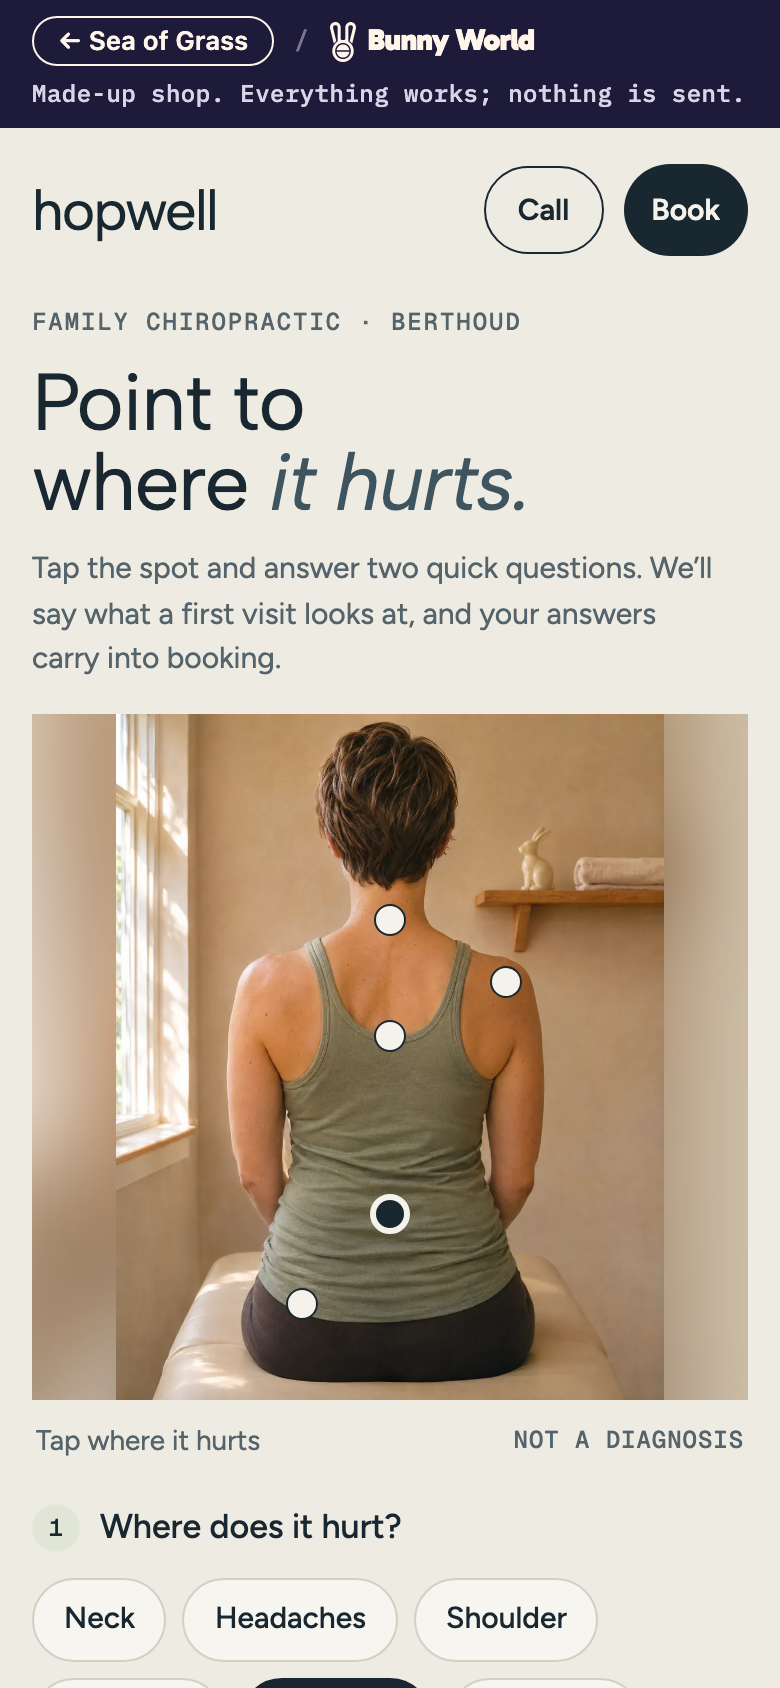
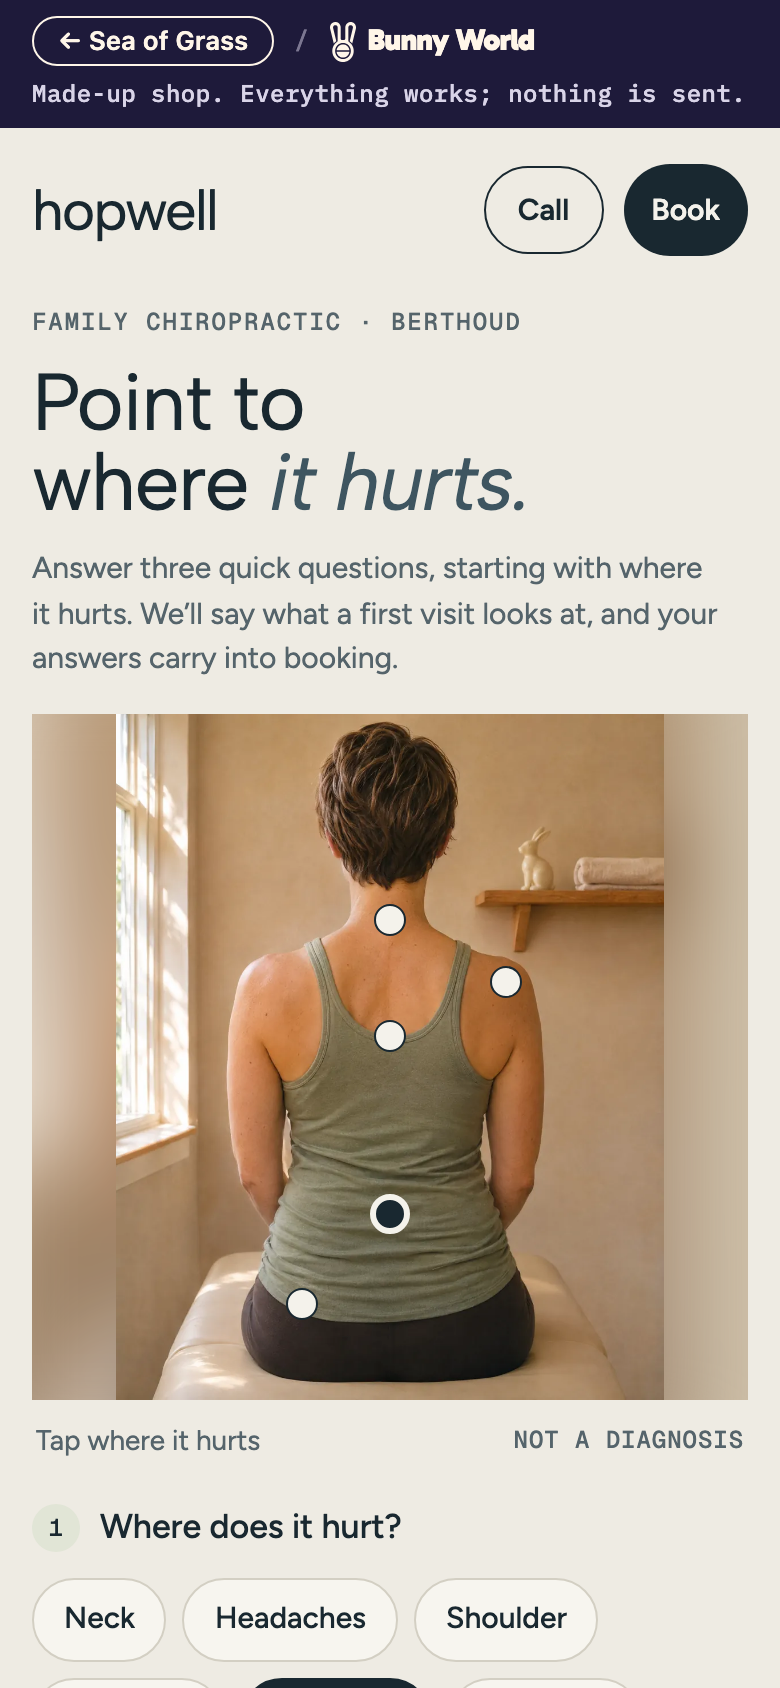
Hopwell: hero says three questions (it said two). New test: any copy that counts the questions must match the questions asked. Old page fails 18/21, this branch passes 21/21.

Changed region(s): [[0.0308, 0.3081, 0.9231, 0.4005]]

diff --git a/bunnyworld/hopwell-chiro/index.html b/bunnyworld/hopwell-chiro/index.html
@@ -26,7 +26,7 @@ window.dataLayer=window.dataLayer||[];function gtag(){dataLayer.push(arguments);
  <span class="acts"><a class="call" href="tel:9705550190">Call</a><a class="btn" href="#book">Book</a></span></header>
 <main id="top">
 <section class="head wrap" id="where" aria-labelledby="where-h"><div><p class="kick">Family chiropractic &middot; Berthoud</p><h1 id="where-h">Point to where <i>it hurts.</i></h1></div>
- <p class="sub">Tap the spot and answer two quick questions. We&rsquo;ll say what a first visit looks at, and your answers carry into booking.</p></section>
+ <p class="sub">Answer three quick questions, starting with where it hurts. We&rsquo;ll say what a first visit looks at, and your answers carry into booking.</p></section>
 
 <section class="hook wrap" data-hook aria-label="Point to where it hurts">
  <figure class="fig"><div class="stage"><img class="blur" src="/preview/assets/work/bunny-world/hopwell-back-640.webp" alt="" aria-hidden="true"><div class="shot"><picture><source type="image/webp" srcset="/preview/assets/work/bunny-world/hopwell-back-640.webp 640w, /preview/assets/work/bunny-world/hopwell-back-960.webp 960w, /preview/assets/work/bunny-world/hopwell-back-1280.webp 1280w" sizes="(max-width: 900px) 100vw, 45vw"><img src="/preview/assets/work/bunny-world/hopwell-back-900.jpg" width="900" height="1125" alt="A patient seen from behind, sitting on a treatment table in a sage tank top, with a little ceramic rabbit on the shelf"></picture>

diff --git a/tests/bunnyworld/hopwell.journey.md b/tests/bunnyworld/hopwell.journey.md
@@ -17,6 +17,7 @@ The rule (Tristan, 2026-11-15): write the steps and the tests first. Build the p
 - There is exactly one scheduling block. No other place on the page shows open times ("next open" or "same-day openings").
 - Booking appears once in the header and once in the page. No section repeats the same button text.
 - Tap spots sit at least 44 px apart, centre to centre. No label covers a spot. Spots have no halo.
+- Any copy that counts the questions ("three quick questions") matches the number asked.
 - Every question title is a full sentence (three words or more) ending in "?".
 - Buttons, chips and spots only use colours from the page's own palette tokens (`:root` custom properties). They have no box-shadows.
 - The page doesn't scroll sideways. The page itself logs no console errors.
